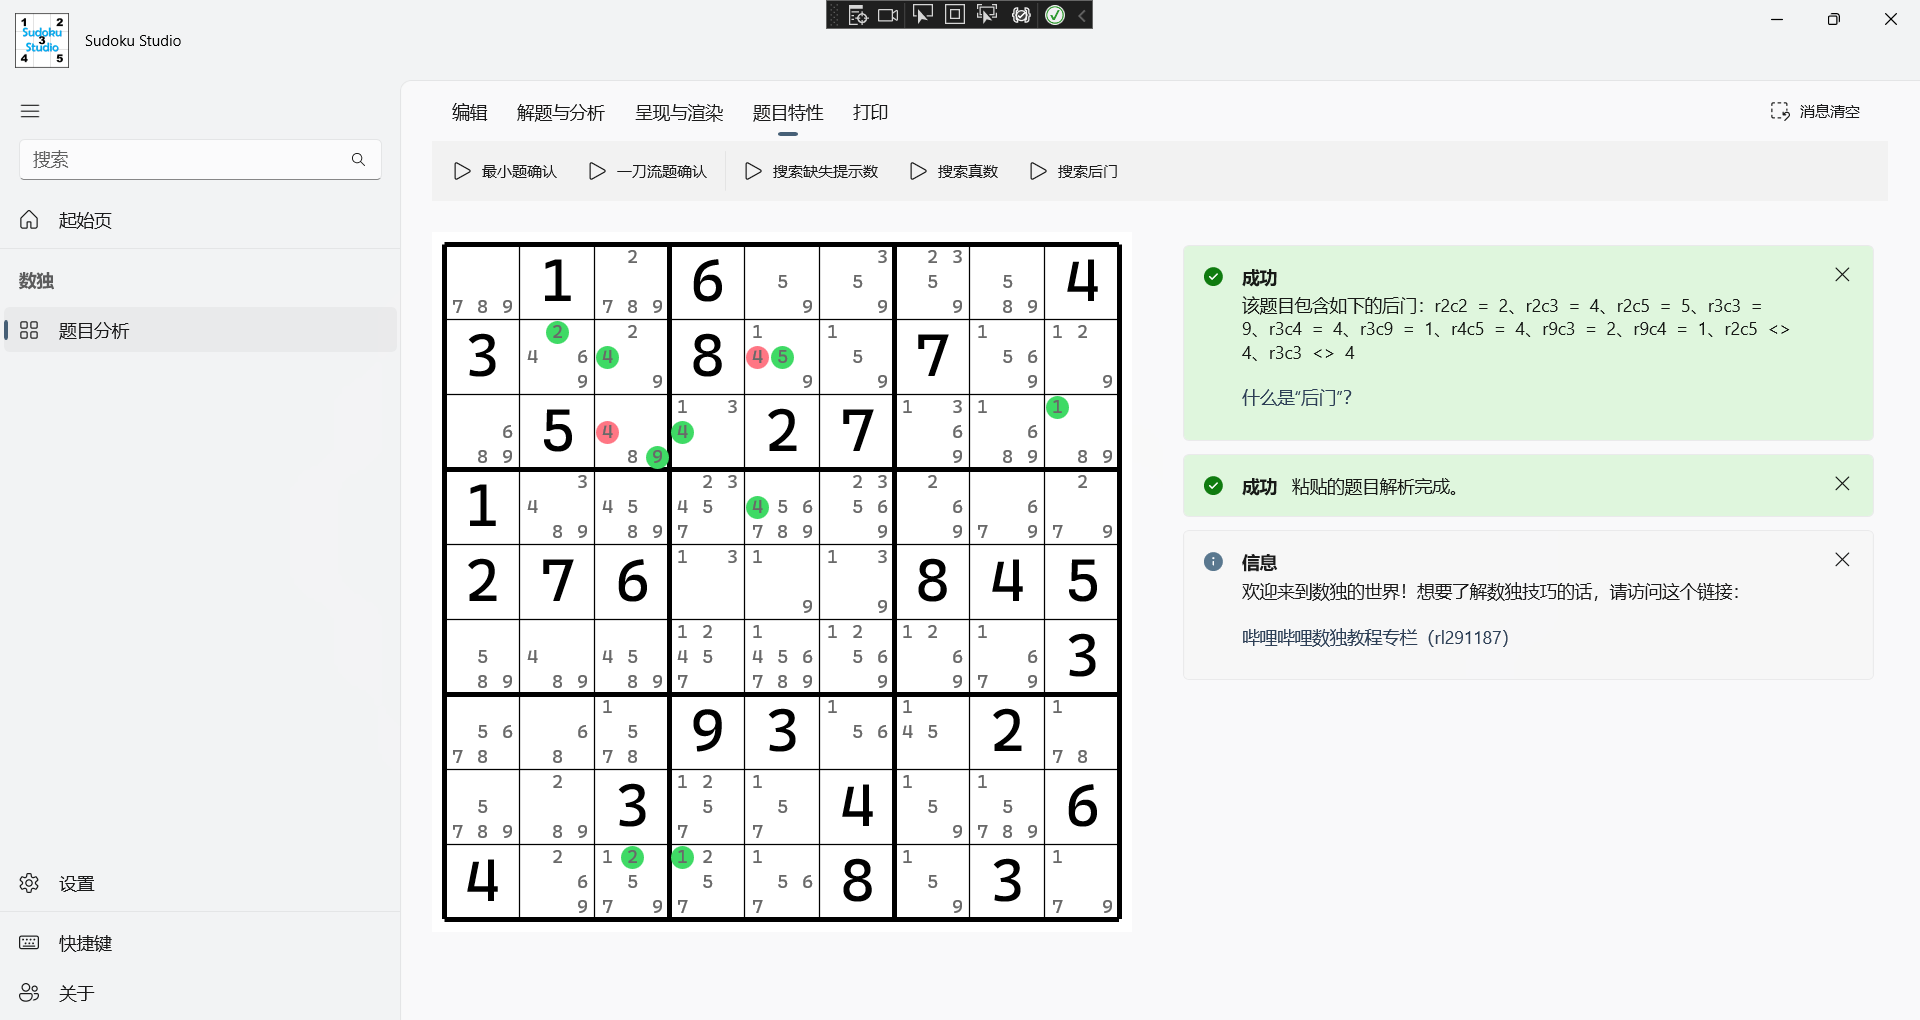
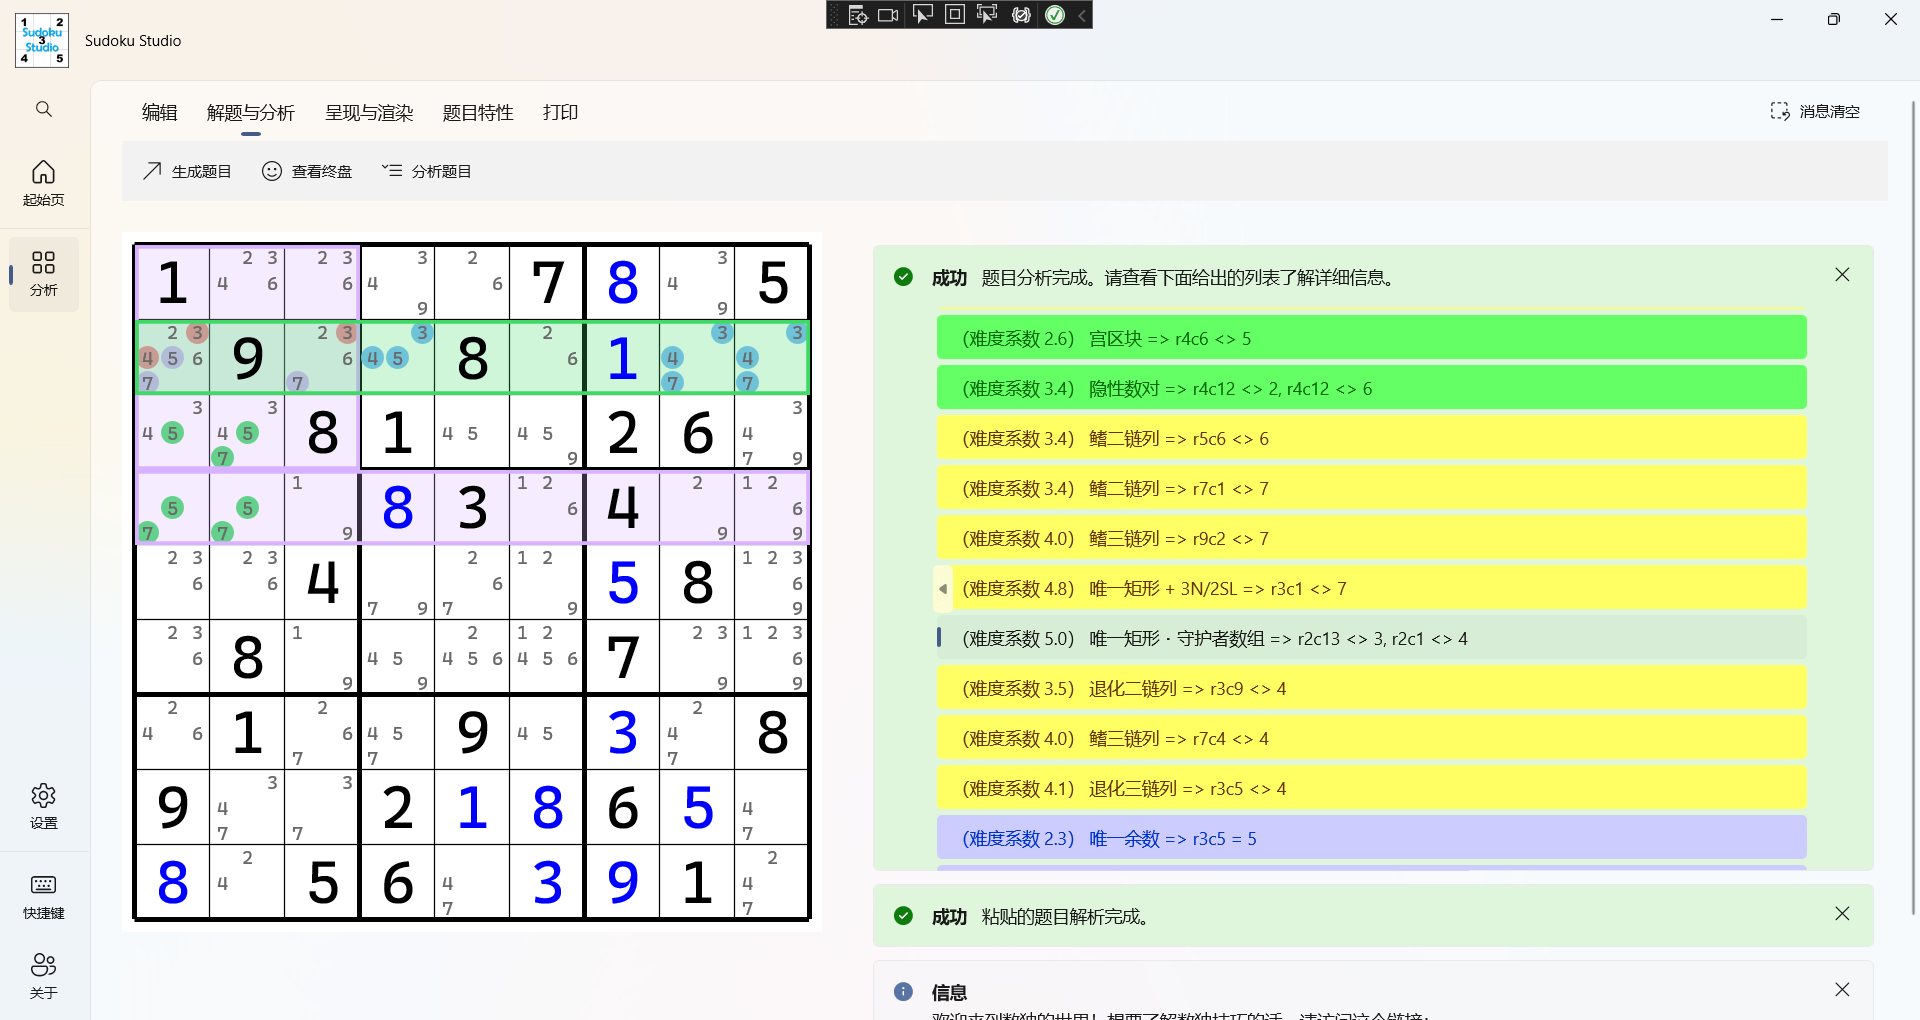
Gives navigation view items a new look.

diff --git a/src/Sudoku.UI/Views/Windows/MainWindow.xaml b/src/Sudoku.UI/Views/Windows/MainWindow.xaml
@@ -23,9 +23,24 @@
 		<NavigationView
 			x:Name="_cViewRouter" Header="{StaticResource ProgramName}" IsBackButtonVisible="Collapsed"
 			Grid.Row="1" IsBackEnabled="False" PaneDisplayMode="LeftCompact" IsSettingsVisible="False"
-			IsPaneToggleButtonVisible="False" CacheMode="BitmapCache"
+			IsPaneToggleButtonVisible="False" CacheMode="BitmapCache" OverflowLabelMode="MoreLabel"
+			CompactModeThresholdWidth="72" CompactPaneLength="72"
 			Loaded="ViewRouter_LoadedAsync" ItemInvoked="ViewRouter_ItemInvoked"
 			SelectionChanged="ViewRouter_SelectionChanged">
+			<NavigationView.Resources>
+				<Style x:Key="_rNavigationViewItemTextBlockStyle" TargetType="TextBlock">
+					<Setter Property="FontSize" Value="11" />
+					<Setter Property="HorizontalAlignment" Value="Center" />
+					<Setter Property="Margin" Value="0,3,0,0" />
+				</Style>
+				<Style x:Key="_rNavigationViewItemNavigationViewItemStyle" TargetType="NavigationViewItem">
+					<Setter Property="Width" Value="64" />
+					<Setter Property="Height" Value="64" />
+				</Style>
+				<Style x:Key="_rNavigationViewItemStackPanelStyle" TargetType="StackPanel">
+					<Setter Property="Margin" Value="0,0,9,0" />
+				</Style>
+			</NavigationView.Resources>
 			<NavigationView.AutoSuggestBox>
 				<AutoSuggestBox
 					QueryIcon="Find" PlaceholderText="{StaticResource HomePage_Search}" VerticalAlignment="Center"
@@ -54,16 +69,61 @@
 				</AutoSuggestBox>
 			</NavigationView.AutoSuggestBox>
 			<NavigationView.MenuItems>
-				<NavigationViewItem Icon="Home" Tag="HomePage" Content="{StaticResource HomePage_Home}" />
+				<NavigationViewItem Tag="HomePage" Style="{ThemeResource _rNavigationViewItemNavigationViewItemStyle}">
+					<NavigationViewItem.Content>
+						<StackPanel Style="{ThemeResource _rNavigationViewItemStackPanelStyle}">
+							<SymbolIcon Symbol="Home" />
+							<TextBlock
+								Text="{StaticResource HomePage_Home}"
+								Style="{ThemeResource _rNavigationViewItemTextBlockStyle}" />
+						</StackPanel>
+					</NavigationViewItem.Content>
+				</NavigationViewItem>
 				<NavigationViewItemSeparator />
 				<NavigationViewItemHeader Content="{StaticResource HomePage_Sudoku}" />
-				<NavigationViewItem Icon="ViewAll" Tag="SudokuPage" Content="{StaticResource HomePage_PlayingAndAnalyzing}" />
+				<NavigationViewItem Tag="SudokuPage" Style="{ThemeResource _rNavigationViewItemNavigationViewItemStyle}">
+					<NavigationViewItem.Content>
+						<StackPanel Style="{ThemeResource _rNavigationViewItemStackPanelStyle}">
+							<SymbolIcon Symbol="ViewAll" />
+							<TextBlock
+								Text="{StaticResource HomePage_PlayingAndAnalyzing}"
+								Style="{ThemeResource _rNavigationViewItemTextBlockStyle}" />
+						</StackPanel>
+					</NavigationViewItem.Content>
+				</NavigationViewItem>
 			</NavigationView.MenuItems>
 			<NavigationView.FooterMenuItems>
-				<NavigationViewItem Icon="Setting" Tag="SettingsPage" Content="{StaticResource HomePage_Settings}" />
+				<NavigationViewItem Tag="SettingsPage" Style="{ThemeResource _rNavigationViewItemNavigationViewItemStyle}">
+					<NavigationViewItem.Content>
+						<StackPanel Style="{ThemeResource _rNavigationViewItemStackPanelStyle}">
+							<SymbolIcon Symbol="Setting" />
+							<TextBlock
+								Text="{StaticResource HomePage_Settings}"
+								Style="{ThemeResource _rNavigationViewItemTextBlockStyle}" />
+						</StackPanel>
+					</NavigationViewItem.Content>
+				</NavigationViewItem>
 				<NavigationViewItemSeparator />
-				<NavigationViewItem Icon="Keyboard" Tag="KeyboardPage" Content="{StaticResource HomePage_Keyboard}" />
-				<NavigationViewItem Icon="People" Tag="AboutPage" Content="{StaticResource HomePage_About}" />
+				<NavigationViewItem Tag="KeyboardPage" Style="{ThemeResource _rNavigationViewItemNavigationViewItemStyle}">
+					<NavigationViewItem.Content>
+						<StackPanel Style="{ThemeResource _rNavigationViewItemStackPanelStyle}">
+							<SymbolIcon Symbol="Keyboard" />
+							<TextBlock
+								Text="{StaticResource HomePage_Keyboard}"
+								Style="{ThemeResource _rNavigationViewItemTextBlockStyle}" />
+						</StackPanel>
+					</NavigationViewItem.Content>
+				</NavigationViewItem>
+				<NavigationViewItem Tag="AboutPage" Style="{ThemeResource _rNavigationViewItemNavigationViewItemStyle}">
+					<NavigationViewItem.Content>
+						<StackPanel Style="{ThemeResource _rNavigationViewItemStackPanelStyle}">
+							<SymbolIcon Symbol="People" />
+							<TextBlock
+								Text="{StaticResource HomePage_About}"
+								Style="{ThemeResource _rNavigationViewItemTextBlockStyle}" />
+						</StackPanel>
+					</NavigationViewItem.Content>
+				</NavigationViewItem>
 			</NavigationView.FooterMenuItems>
 
 			<Frame

diff --git a/src/Sudoku.UI/Data/ResourceDictionaries/TextResources-en-us.xaml b/src/Sudoku.UI/Data/ResourceDictionaries/TextResources-en-us.xaml
@@ -5,7 +5,7 @@
 	<x:String x:Key="ProgramVersion">Version 0.12</x:String>
 
 	<!--Page inner data-->
-	<x:String x:Key="HomePage_PlayingAndAnalyzing">Playing &amp; Analyzing</x:String>
+	<x:String x:Key="HomePage_PlayingAndAnalyzing">Analyze</x:String>
 	<x:String x:Key="HomePage_Sudoku">Sudoku</x:String>
 	<x:String x:Key="HomePage_Settings">Settings</x:String>
 	<x:String x:Key="HomePage_Keyboard">Keyboard</x:String>

diff --git a/src/Sudoku.UI/Data/ResourceDictionaries/TextResources-zh-cn.xaml b/src/Sudoku.UI/Data/ResourceDictionaries/TextResources-zh-cn.xaml
@@ -4,7 +4,7 @@
 	<x:String x:Key="ProgramVersion">版本 0.12</x:String>
 
 	<!--页面数据-->
-	<x:String x:Key="HomePage_PlayingAndAnalyzing">题目分析</x:String>
+	<x:String x:Key="HomePage_PlayingAndAnalyzing">分析</x:String>
 	<x:String x:Key="HomePage_Sudoku">数独</x:String>
 	<x:String x:Key="HomePage_Keyboard">快捷键</x:String>
 	<x:String x:Key="HomePage_Settings">设置</x:String>
